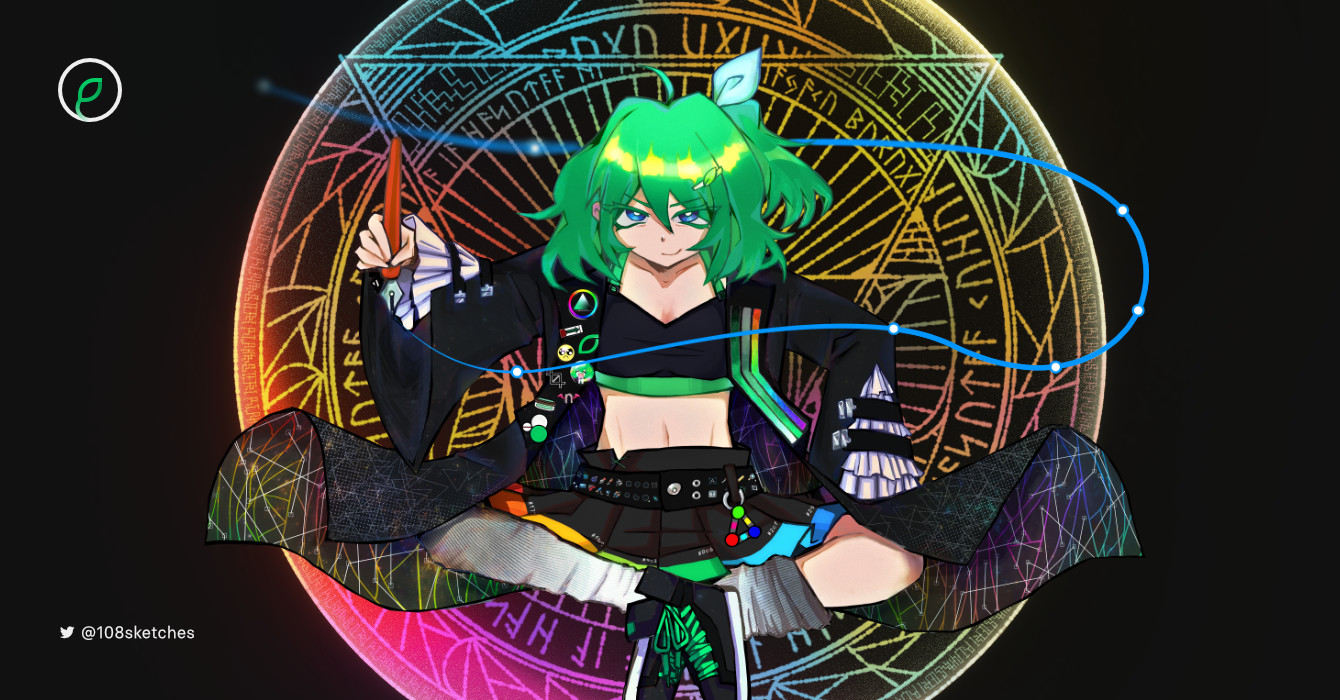
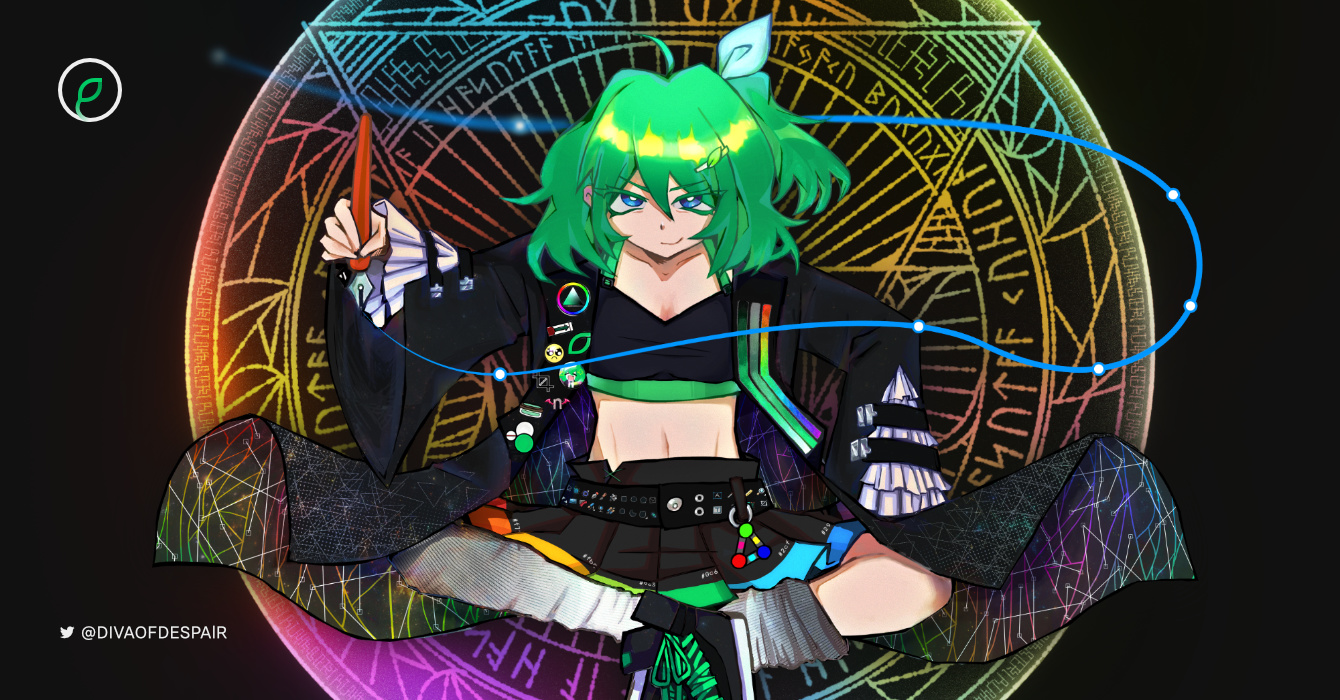
Replace Layer's profile links.

diff --git a/src/app/not-found.tsx b/src/app/not-found.tsx
@@ -131,8 +131,8 @@ export default function NotFound() {
 									</a.div>
 									<a.p style={styles} className="md:absolute pt-6 bottom-3 md:bottom-5 left-0 right-0 text-xs text-center">
 										Detective Mina was drawn by{" "}
-										<Link href="https://twitter.com/108sketches" target="_blank" className="text-link-external">
-											Layer (@108sketches)
+										<Link href="https://twitter.com/DIVAOFDESPAlR" target="_blank" className="text-link-external">
+											Layer (@DIVAOFDESPAlR)
 										</Link>
 										.
 									</a.p>
@@ -161,8 +161,8 @@ export default function NotFound() {
 									</a.div>
 									<a.p style={styles} className="md:absolute pt-6 bottom-3 md:bottom-5 left-0 right-0 text-xs text-center">
 										Detektiv Mina wurde von{" "}
-										<Link href="https://twitter.com/108sketches" target="_blank" className="text-link-external">
-											Layer (@108sketches)
+										<Link href="https://twitter.com/DIVAOFDESPAlR" target="_blank" className="text-link-external">
+											Layer (@DIVAOFDESPAlR)
 										</Link>{" "}
 										gezeichnet.
 									</a.p>

diff --git a/src/app/[locale]/mina/page.tsx b/src/app/[locale]/mina/page.tsx
@@ -55,7 +55,7 @@ export default function Page({ searchParams, params: { locale } }: Props) {
 						className="absolute right-0 top-1/2 -translate-y-1/2 z-100 px-1 py-2 rounded-l-md text-xs text-neutral-50 bg-neutral-950/75 backdrop-blur-md"
 						style={{ writingMode: "vertical-rl" }}
 					>
-						<Twitter className="inline fill-blue rotate-90" /> @108sketches
+						<Twitter className="inline fill-blue rotate-90" /> @DIVAOFDESPAlR
 					</p>
 					<FadingImage src={TitleMina} alt="" fill className="object-cover object-center" quality={90} />
 				</div>
